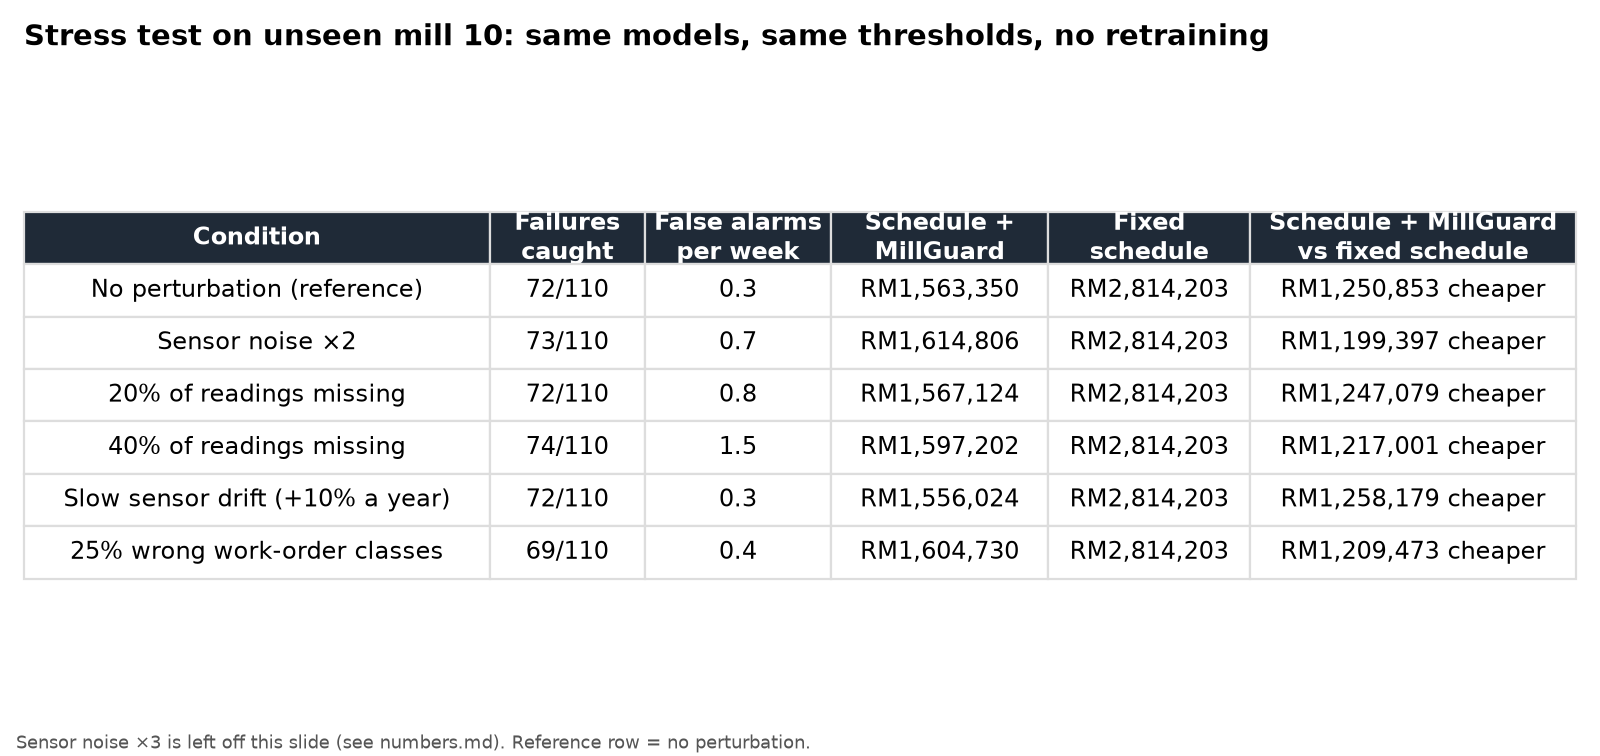
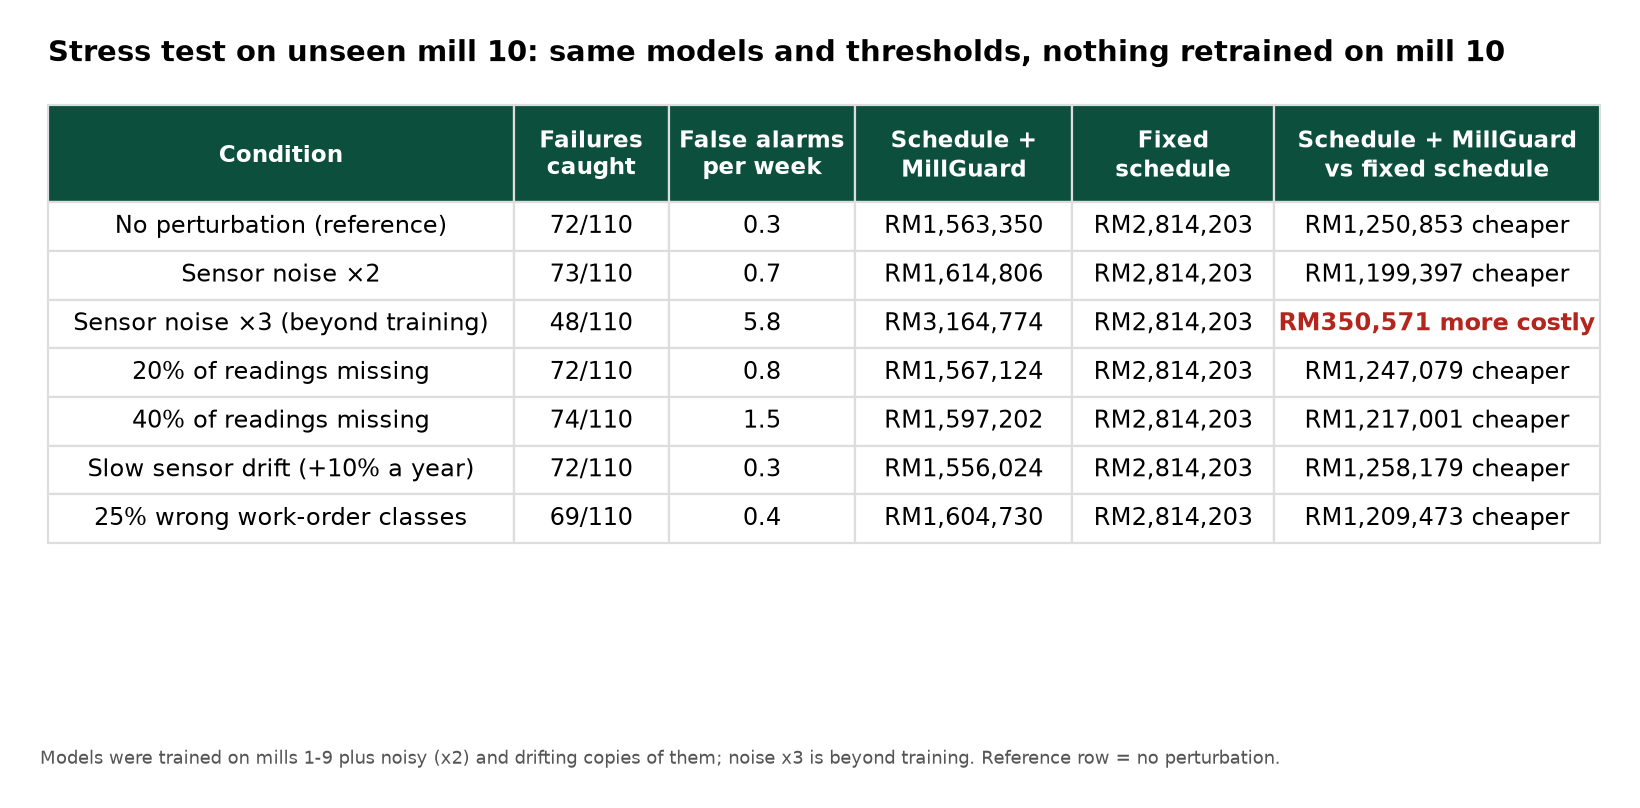
Pitch assets: IMS-measured bearing footer, all stress rows with false alarms, taller headers

diff --git a/backend/scripts/export_pitch.py b/backend/scripts/export_pitch.py
@@ -1,4 +1,4 @@
-"""Slide-ready assets into pitch/: cumulative-cost chart, stress-test table (no noise x3 row), catch-by-class table, numbers.md.
+"""Slide-ready assets into pitch/: cumulative-cost chart, stress-test table (all rows, noise x3 marked as the limit), catch-by-class table, numbers.md.
 Every number comes from the same Service the API uses (or artifacts it reads). Run after `make all`: make pitch."""
 import json
 from pathlib import Path
@@ -34,36 +34,38 @@ def chart(bt):
 
 
 def table_png(path, title, head, rows, widths, note=None, hl=None):
-    fig, ax = plt.subplots(figsize=(10, 0.55 * (len(rows) + 2.6)), dpi=160); ax.axis("off")
-    tb = ax.table(cellText=rows, colLabels=head, loc="center", cellLoc="center", colWidths=widths)
+    two_line = any("\n" in h for h in head)
+    fig, ax = plt.subplots(figsize=(10, 0.5 * (len(rows) + 1.6 + (0.9 if two_line else 0))), dpi=160); ax.axis("off")
+    tb = ax.table(cellText=rows, colLabels=head, loc="upper center", cellLoc="center", colWidths=widths)
     tb.auto_set_font_size(False); tb.set_fontsize(11); tb.scale(1, 1.7)
     for (r, c), cell in tb.get_celld().items():
         cell.set_edgecolor("#dddddd")
         if r == 0:
-            cell.set_facecolor("#1f2a37"); cell.set_text_props(color="white", weight="bold")
+            cell.set_height(cell.get_height() * (2.0 if two_line else 1.3))   # room for two-line headers
+            cell.set_facecolor("#0B4F3C"); cell.set_text_props(color="white", weight="bold", fontsize=10.5, linespacing=1.25)
         elif hl and hl(r - 1, c, rows):
             cell.set_text_props(color="#b3261e", weight="bold")
-    ax.set_title(title, fontsize=13, weight="bold", loc="left")
+    ax.set_title(title, fontsize=13, weight="bold", loc="left", pad=14)
     if note:
-        fig.text(0.01, 0.01, note, fontsize=8, color="#555555")
-    fig.tight_layout(); fig.savefig(path); plt.close(fig)
+        fig.text(0.01, 0.015, note, fontsize=8, color="#555555")
+    fig.tight_layout(rect=(0, 0.04 if note else 0, 1, 1)); fig.savefig(path, bbox_inches="tight", pad_inches=0.25); plt.close(fig)
 
 
-SHORT = {"baseline": "No perturbation (reference)", "noise2": "Sensor noise ×2", "miss20": "20% of readings missing",
+SHORT = {"baseline": "No perturbation (reference)", "noise2": "Sensor noise ×2", "noise3": "Sensor noise ×3 (beyond training)", "miss20": "20% of readings missing",
          "miss40": "40% of readings missing", "drift": "Slow sensor drift (+10% a year)", "wo25": "25% wrong work-order classes"}
 
 
 def stress(bt):
-    rows = [r for r in json.loads((ART / "stress_table.json").read_text()) if r["key"] != "noise3"]
+    rows = json.loads((ART / "stress_table.json").read_text())
     body = []
     for r in rows:
         sp, fx = r["cost"]["schedule_plus_millguard"], r["cost"]["fixed_interval"]
         body.append([SHORT[r["key"]], f"{r['caught']}/{r['total']}", f"{r['fa_week']:.1f}", rm(sp), rm(fx),
                      rm(abs(fx - sp)) + (" cheaper" if sp < fx else " more costly")])
-    table_png(OUT / "stress_test.png", "Stress test on unseen mill 10: same models, same thresholds, no retraining",
+    table_png(OUT / "stress_test.png", "Stress test on unseen mill 10: same models and thresholds, nothing retrained on mill 10",
               ["Condition", "Failures\ncaught", "False alarms\nper week", "Schedule +\nMillGuard", "Fixed\nschedule", "Schedule + MillGuard\nvs fixed schedule"],
               body, [0.30, 0.10, 0.12, 0.14, 0.13, 0.21],
-              note="Sensor noise ×3 is left off this slide (see numbers.md). Reference row = no perturbation.",
+              note="Models were trained on mills 1-9 plus noisy (x2) and drifting copies of them; noise x3 is beyond training. Reference row = no perturbation.",
               hl=lambda r, c, rows: c == 5 and "more costly" in rows[r][5])
     return rows
 
@@ -75,7 +77,7 @@ def catch(tm):
     body.append(["All faults", f"{got}/{tot}", f"{100 * got / tot:.0f}%", ""])
     table_png(OUT / "catch_by_fault_class.png", "Failures caught before they happen, by fault class (unseen mill 10, 2025)",
               ["Fault class", "Caught / total", "Catch rate", "Median warning"], body, [0.34, 0.22, 0.22, 0.22],
-              note=f"{tm['false_alarms_per_week']} false alarms per week. Warning periods in the simulator are assumed (params.yaml).")
+              note=f"{tm['false_alarms_per_week']} false alarms per week. Bearing warning period measured on NASA/IMS run-to-failure bearings; other warning periods assumed (params.yaml).")
     (OUT / "catch_by_fault_class.md").write_text("| Fault class | Caught / total | Median warning |\n|---|---|---|\n" +
                                                  "\n".join(f"| {r[0]} | {r[1]} | {r[3]} |" for r in body) + "\n")
     return body
@@ -119,15 +121,15 @@ def numbers(s, bt, strict, tm, stress_rows):
     for e in rob["extra"]:
         if e["dataset"].startswith("Real coal"):
             L.append(f"| Real coal-fired boiler, steam excursions 10-15 min ahead | {e['events_caught']} of {e['events_total']} caught, precision {e['precision_pct']}%, {e['false_alarms_per_day']} false alarms per day. No usable skill (AUC 0.54). | /api/robustness extra[] |")
-    L += ["", "## Stress test (mill 10, no retraining, thresholds unchanged)", "| Condition | Caught | Schedule + MillGuard | Fixed schedule |", "|---|---|---|---|"]
+    L += ["", "## Stress test (mill 10, nothing retrained on mill 10, thresholds unchanged; models trained with noise x2 and drift copies of mills 1-9)", "| Condition | Caught | False alarms/week | Schedule + MillGuard | Fixed schedule |", "|---|---|---|---|---|"]
     for r in stress_rows:
-        L.append(f"| {r['label']} | {r['caught']}/{r['total']} | {rm(r['cost']['schedule_plus_millguard'])} | {rm(r['cost']['fixed_interval'])} |")
+        L.append(f"| {r['label']} | {r['caught']}/{r['total']} | {r['fa_week']:.2f} | {rm(r['cost']['schedule_plus_millguard'])} | {rm(r['cost']['fixed_interval'])} |")
     n3 = next(r for r in json.loads((ART / "stress_table.json").read_text()) if r["key"] == "noise3")
-    L += ["", "**Why noise ×3 is not on the slide:** at ×3 the model catches only "
-          f"{n3['caught']} of {n3['total']} failures and mostly stops alerting, so its cost ({rm(n3['cost']['schedule_plus_millguard'])}) comes from the fixed schedule underneath, "
-          "not from MillGuard. It is in /api/robustness extra[] and backend/artifacts/stress_table.json if a judge asks. "
-          "Noise ×2 (worse than fixed) is on the slide on purpose: MillGuard needs reasonably clean sensors or retraining on the mill's own data.",
-          "", "## Assumptions to say out loud", "- Mills are simulated; warning periods before failure (worm 300 h, gearbox 400 h, bearing 150 h, cone 200 h) are assumed.",
+    L += ["", "**Say it plainly:** the models were trained with noisy (x2) and drifting copies of the training mills, so those rows test conditions it learned. "
+          f"Noise x3 is beyond training: it catches {n3['caught']} of {n3['total']} at {n3['fa_week']:.1f} false alarms a week and costs {rm(n3['cost']['schedule_plus_millguard'])}, "
+          f"more than the fixed schedule ({rm(n3['cost']['fixed_interval'])}). That is the limit: past it a mill needs better sensors, and the sensor-health checks flag it. "
+          "When readings go missing, catches hold but false alarms rise (see the column above).",
+          "", "## Assumptions to say out loud", f"- Mills are simulated. The bearing warning period ({val(p, 'simulator', 'pf_h_bearing')} h) is measured on NASA/IMS run-to-failure bearings; the other warning periods (worm, gearbox, cone) are assumed.",
           "- Crew inspection finds the real fault 50% of the time when the predicted class is wrong (`inspection_finds_wrong_class`; slider = `inspection_accuracy`).",
           "- Alert threshold uses a false-alarm multiplier fitted on training mills only; nothing is tuned on mill 10.",
           "- Press fault fingerprints use the machine's own previous 30 days as 'normal'."]

diff --git a/pitch/numbers.md b/pitch/numbers.md
@@ -40,20 +40,21 @@ All results are from simulated mills (mill 10 is unseen in training) unless mark
 | MetroPT-3 real compressor, 4 air-leak failures | 0 of 4 flagged before they started; 0.1 false alarms per week | /api/robustness |
 | Real coal-fired boiler, steam excursions 10-15 min ahead | 7 of 16 caught, precision 17.4%, 38.5 false alarms per day. No usable skill (AUC 0.54). | /api/robustness extra[] |
 
-## Stress test (mill 10, no retraining, thresholds unchanged)
-| Condition | Caught | Schedule + MillGuard | Fixed schedule |
-|---|---|---|---|
-| No perturbation (reference) | 72/110 | RM1,563,350 | RM2,814,203 |
-| Sensor noise x2 | 73/110 | RM1,614,806 | RM2,814,203 |
-| 20% of readings missing | 72/110 | RM1,567,124 | RM2,814,203 |
-| 40% of readings missing | 74/110 | RM1,597,202 | RM2,814,203 |
-| Slow sensor drift (+10% over the year on current and vibration) | 72/110 | RM1,556,024 | RM2,814,203 |
-| 25% of work orders with the wrong fault class | 69/110 | RM1,604,730 | RM2,814,203 |
+## Stress test (mill 10, nothing retrained on mill 10, thresholds unchanged; models trained with noise x2 and drift copies of mills 1-9)
+| Condition | Caught | False alarms/week | Schedule + MillGuard | Fixed schedule |
+|---|---|---|---|---|
+| No perturbation (reference) | 72/110 | 0.31 | RM1,563,350 | RM2,814,203 |
+| Sensor noise x2 | 73/110 | 0.67 | RM1,614,806 | RM2,814,203 |
+| Sensor noise x3 | 48/110 | 5.81 | RM3,164,774 | RM2,814,203 |
+| 20% of readings missing | 72/110 | 0.84 | RM1,567,124 | RM2,814,203 |
+| 40% of readings missing | 74/110 | 1.50 | RM1,597,202 | RM2,814,203 |
+| Slow sensor drift (+10% over the year on current and vibration) | 72/110 | 0.33 | RM1,556,024 | RM2,814,203 |
+| 25% of work orders with the wrong fault class | 69/110 | 0.40 | RM1,604,730 | RM2,814,203 |
 
-**Why noise ×3 is not on the slide:** at ×3 the model catches only 48 of 110 failures and mostly stops alerting, so its cost (RM3,164,774) comes from the fixed schedule underneath, not from MillGuard. It is in /api/robustness extra[] and backend/artifacts/stress_table.json if a judge asks. Noise ×2 (worse than fixed) is on the slide on purpose: MillGuard needs reasonably clean sensors or retraining on the mill's own data.
+**Say it plainly:** the models were trained with noisy (x2) and drifting copies of the training mills, so those rows test conditions it learned. Noise x3 is beyond training: it catches 48 of 110 at 5.8 false alarms a week and costs RM3,164,774, more than the fixed schedule (RM2,814,203). That is the limit: past it a mill needs better sensors, and the sensor-health checks flag it. When readings go missing, catches hold but false alarms rise (see the column above).
 
 ## Assumptions to say out loud
-- Mills are simulated; warning periods before failure (worm 300 h, gearbox 400 h, bearing 150 h, cone 200 h) are assumed.
+- Mills are simulated. The bearing warning period (98.5 h) is measured on NASA/IMS run-to-failure bearings; the other warning periods (worm, gearbox, cone) are assumed.
 - Crew inspection finds the real fault 50% of the time when the predicted class is wrong (`inspection_finds_wrong_class`; slider = `inspection_accuracy`).
 - Alert threshold uses a false-alarm multiplier fitted on training mills only; nothing is tuned on mill 10.
 - Press fault fingerprints use the machine's own previous 30 days as 'normal'.
